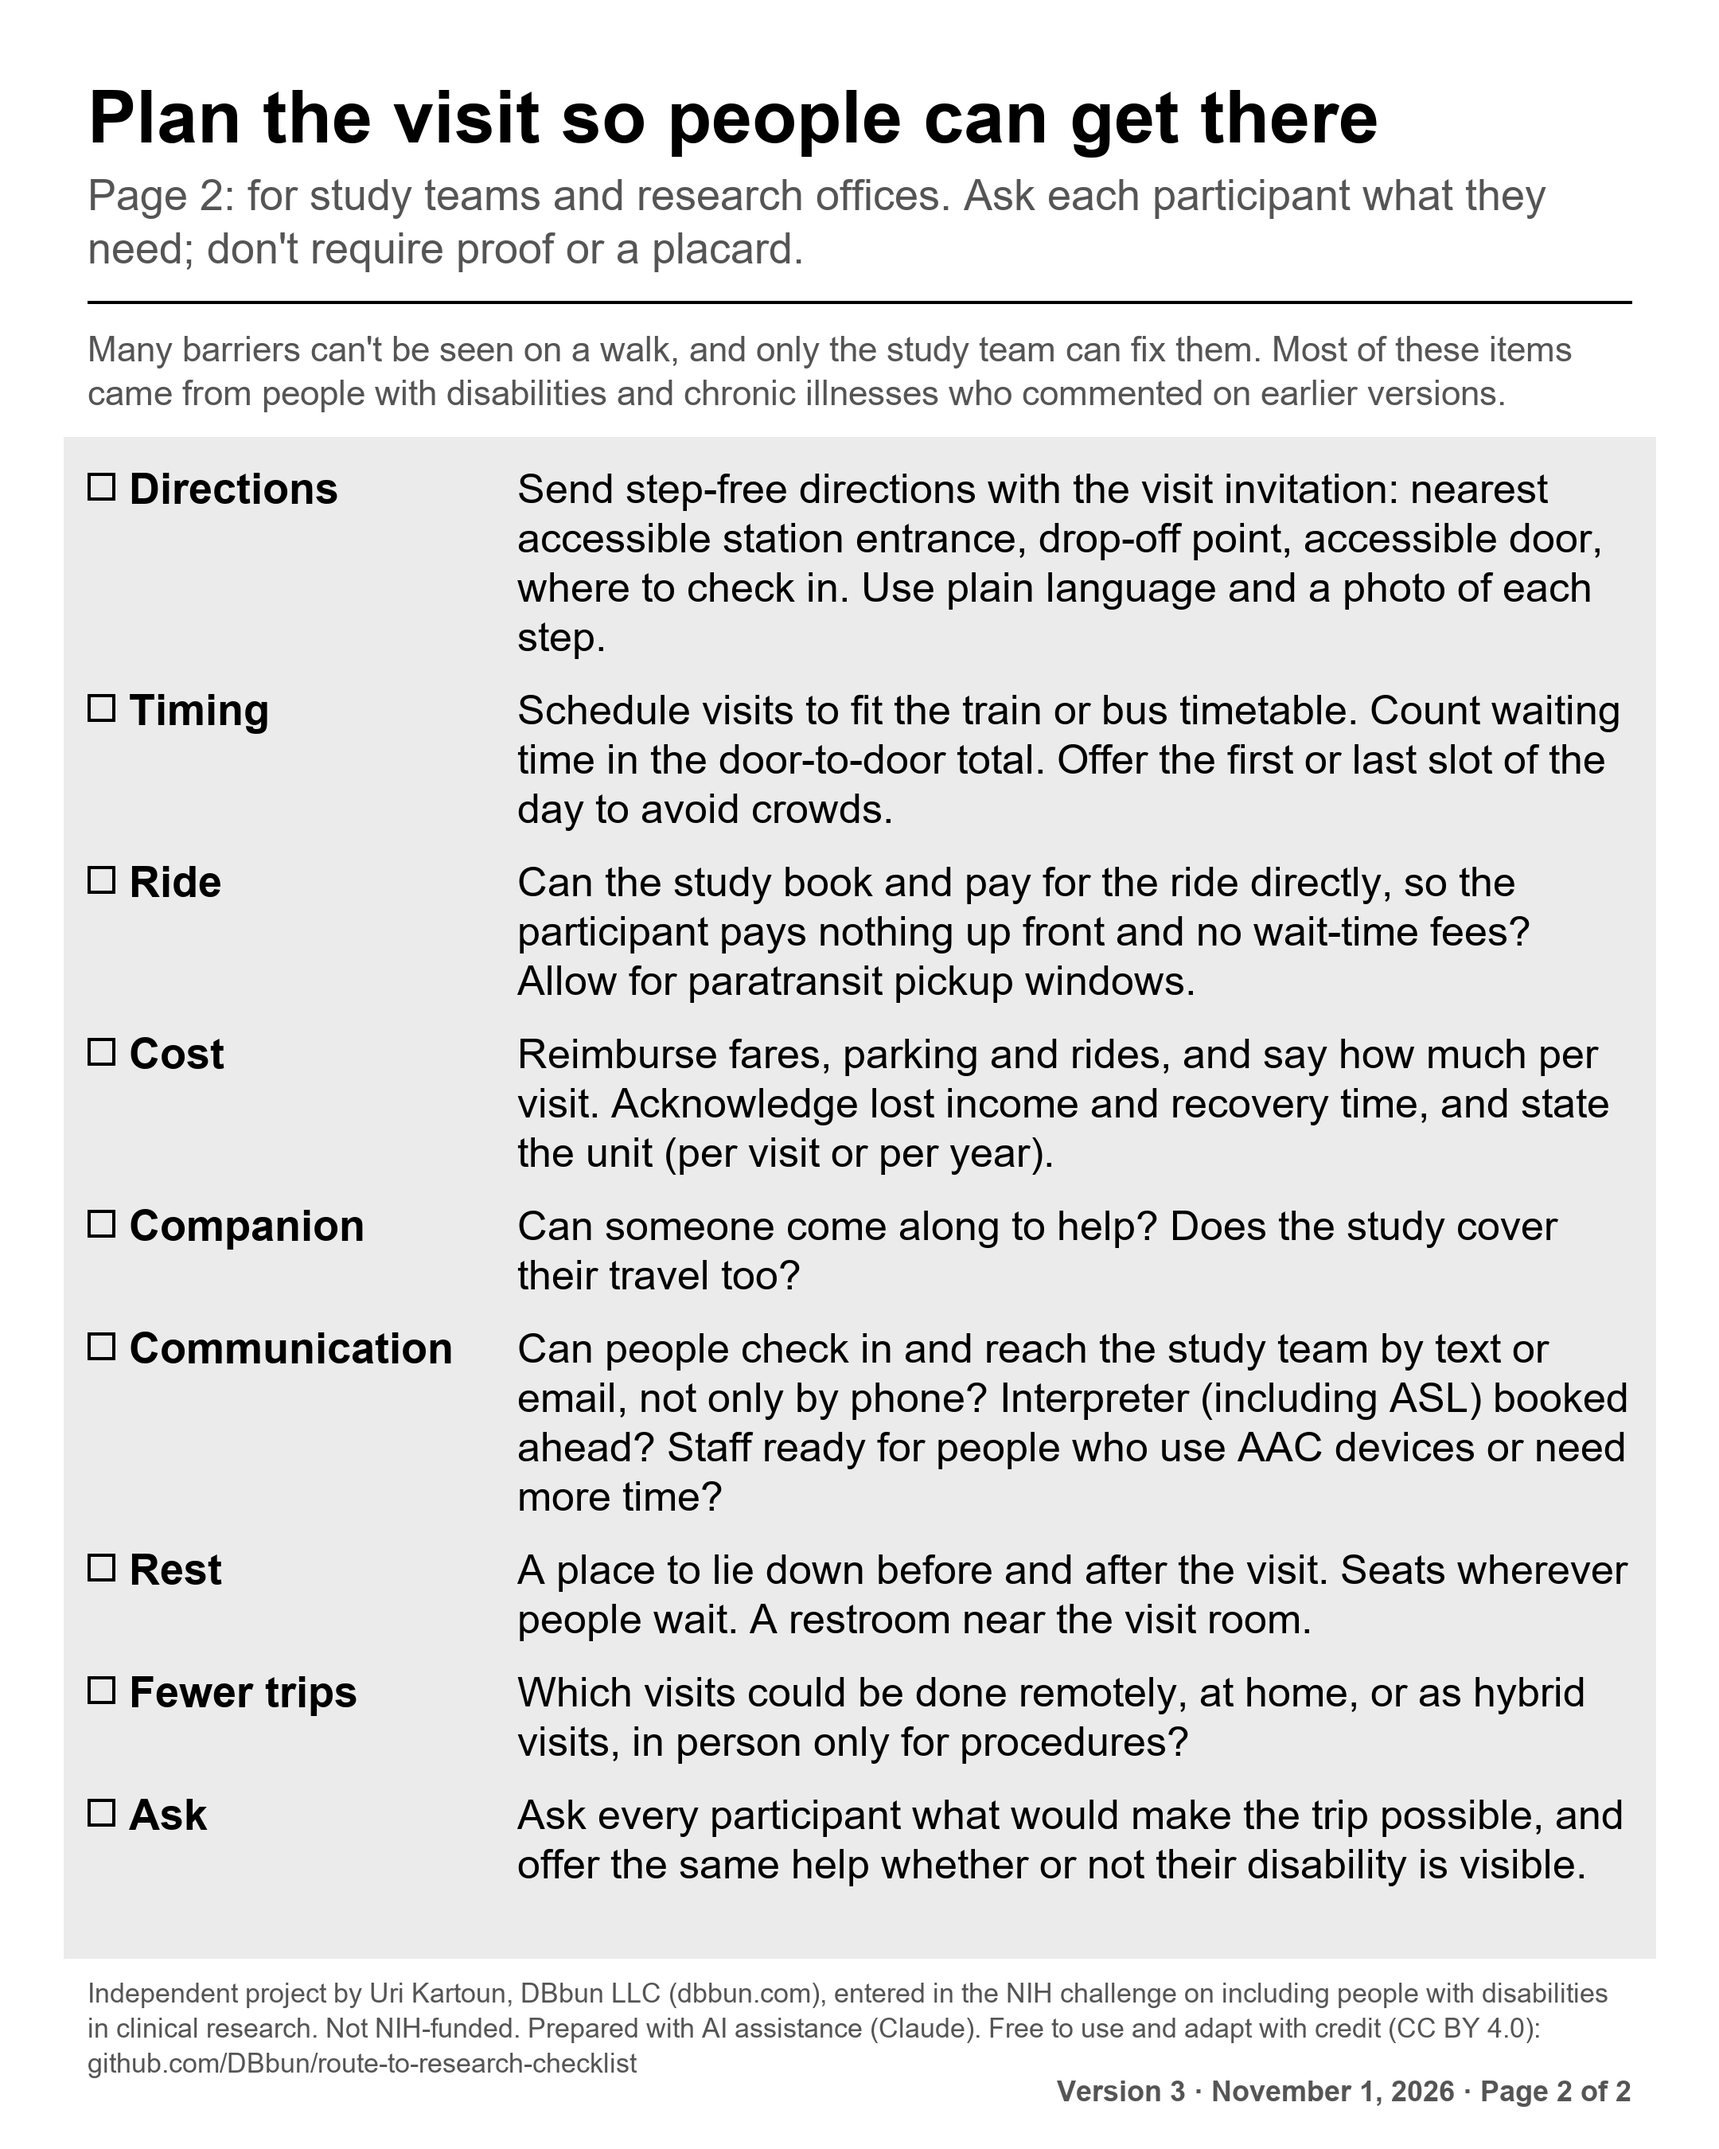
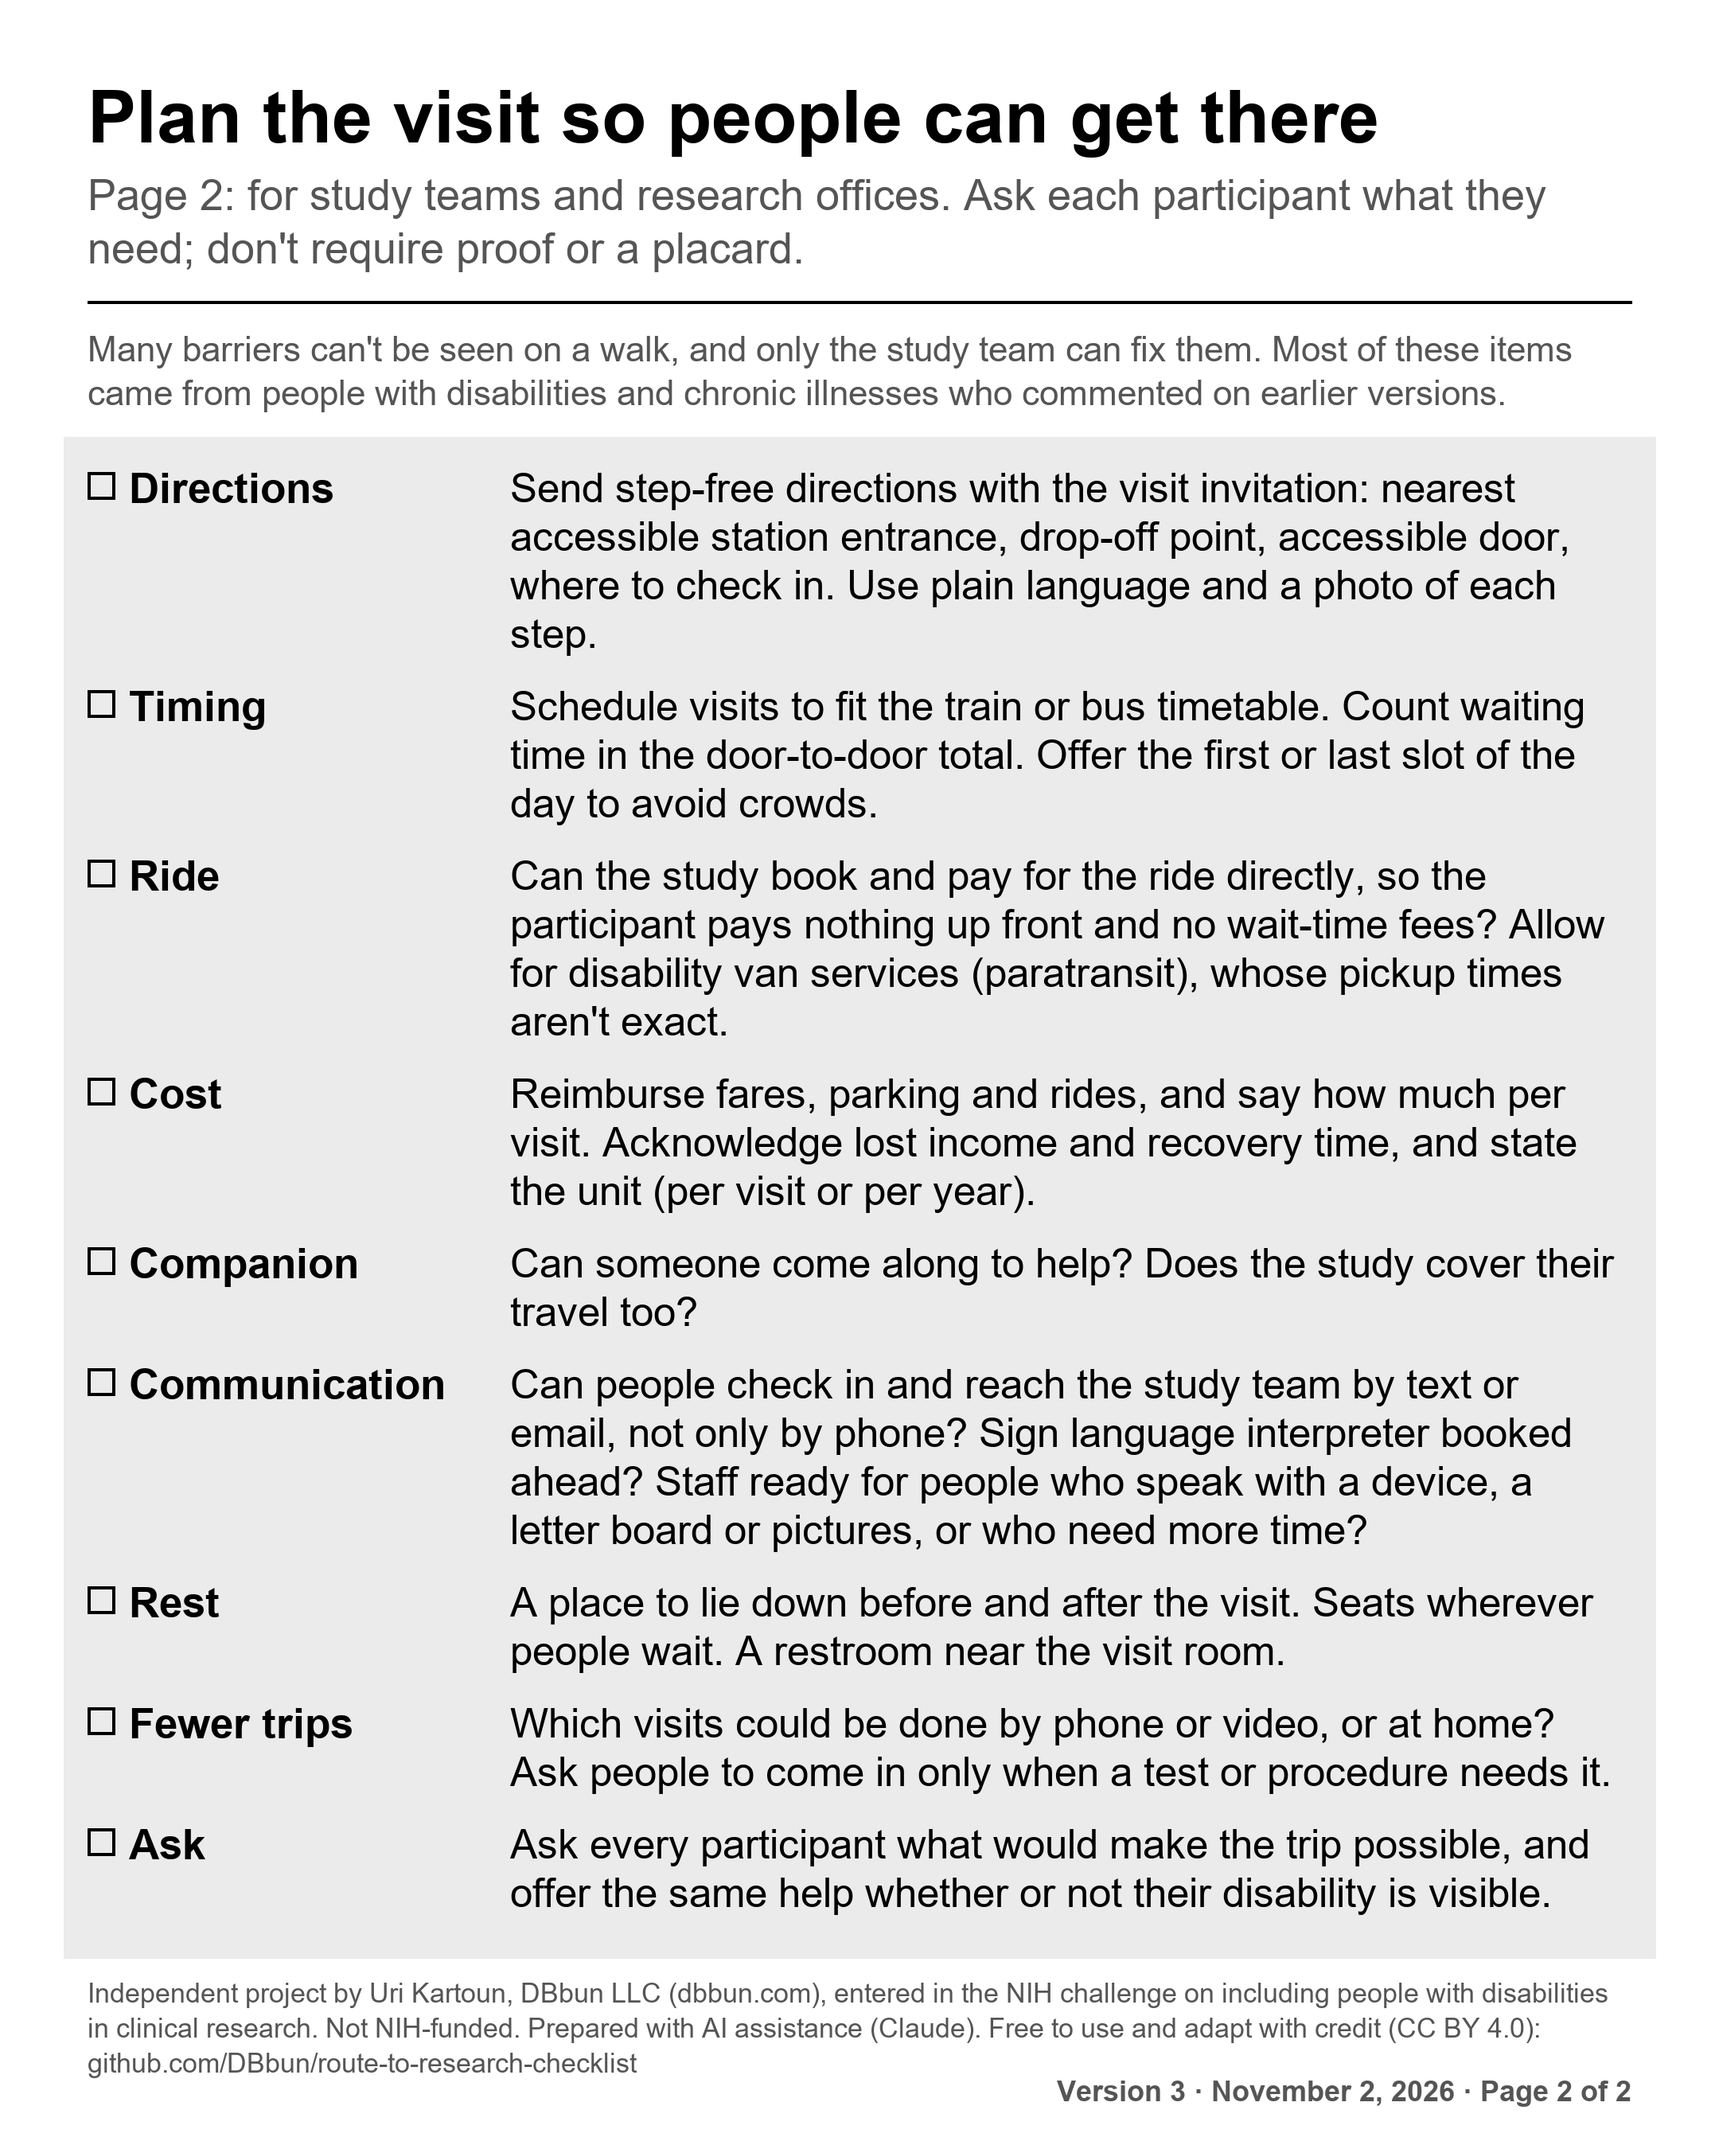
Checklist v3: plain-language wording (no ASL/AAC or other jargon)

diff --git a/CHANGELOG.md b/CHANGELOG.md
@@ -1,5 +1,8 @@
 # Checklist versions
 
+## v3, wording update (2026-11-02)
+Plain language: no unexplained abbreviations or jargon. "ASL" became "sign language interpreter"; "AAC" became "people who speak with a device, a letter board or pictures"; "warning pad" became "bumpy warning strip"; "accessible signal" became "a signal that beeps or talks"; paratransit and remote visits explained. No items added or removed.
+
 ## v3 (2026-11-01)
 Two pages instead of one. Most changes came from comments and form responses from people with disabilities and chronic illnesses (see [community-input/THEMES.md](community-input/THEMES.md)).
 - **Page 1, the route** (checked on foot): new **Signs** item (a sign to the step-free route where people choose their way; simple words and symbols). Elevators clean, lit and easy to see, and the number of elevators on the whole trip. Seats wherever people wait; restrooms along the way. Stairs, hills, bumpy stretches and railings. Time the walk signal. Drop-off for anyone who asks, placard or not. Crowds and a quiet place to wait. Construction detours step-free and signed; snow and ice. Subtitle now covers the trip by transit, car or ride.

diff --git a/community-input/THEMES.md b/community-input/THEMES.md
@@ -27,7 +27,7 @@ Last updated: 2026-11-01. Form responses so far: 4. Version 3 of the checklist (
 | **Invisible disability** | People with real limits are told they don't look disabled, or don't qualify for a parking placard. | Added to v3: drop-off for anyone who asks, placard or not; the same help whether or not a disability is visible |
 | **Signs at decision points** | The step-free option exists, but nothing points to it where people choose their way. | Added to v3 (page 1, Signs) |
 | **Some must drive, others can't** | Driving is the only way for some disabled people; others can't drive at all. | v3 subtitle: the trip by transit, car or ride |
-| **Communication access** | Booking and check-in by phone only; interpreters; people who use AAC devices. | Added to v3 (page 2, Communication) |
+| **Communication access** | Booking and check-in by phone only; sign language interpreters; people who speak with a device, a letter board or pictures. | Added to v3 (page 2, Communication) |
 
 ## Accessibility of the form itself
 
